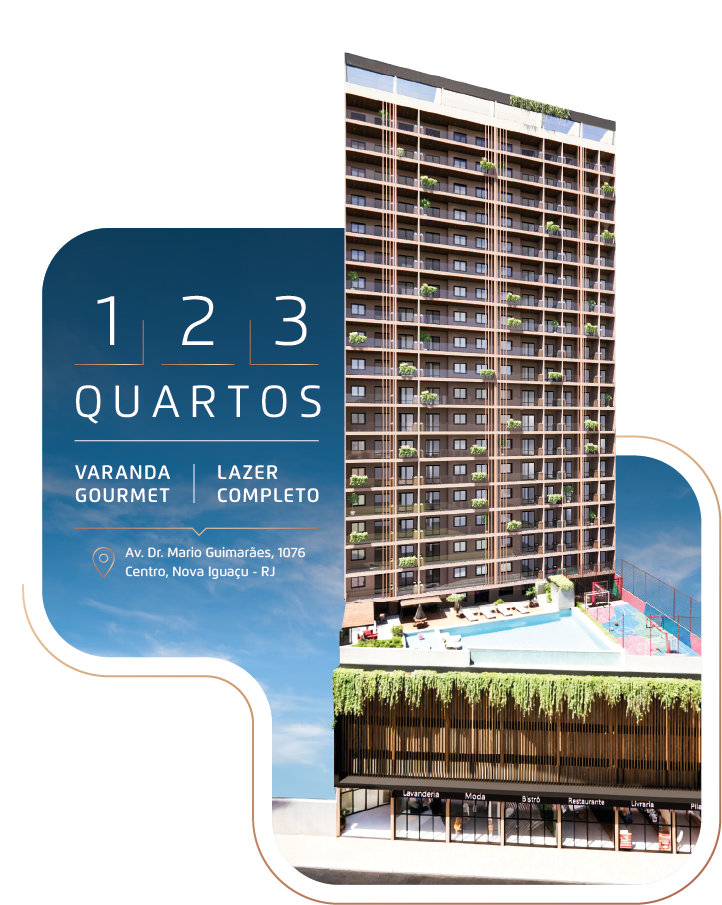
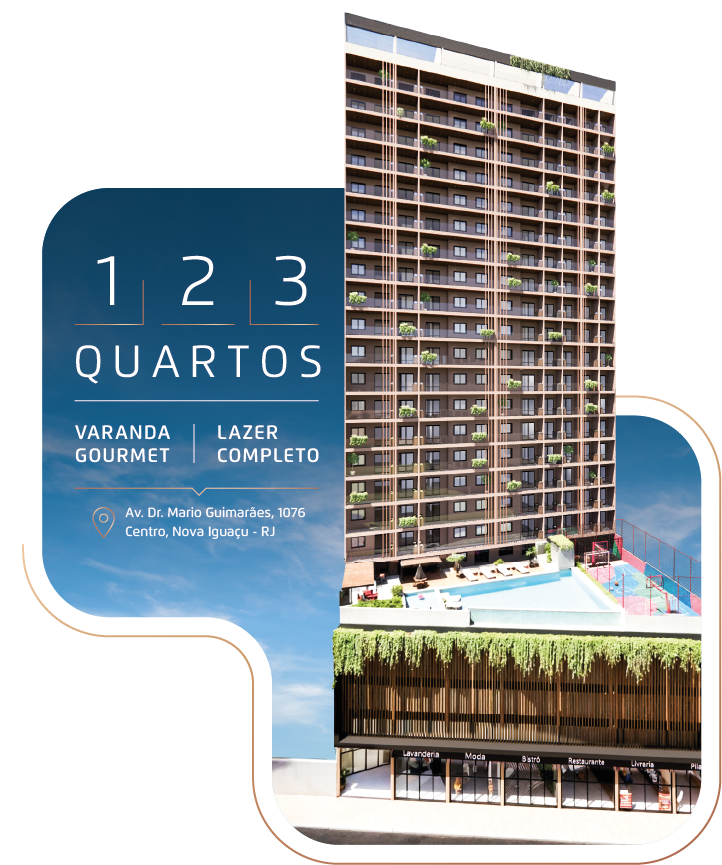
update residencia

diff --git a/css/style.css b/css/style.css
@@ -288,7 +288,6 @@ body {
 .residencial-title {
     font-size: 32px;
     font-weight: 300;
-    margin-top: 20px;
     line-height: 1.4;
     color: #e5bf9a;
 }
@@ -299,18 +298,19 @@ body {
 }
 
 .residencial-text {
-    font-size: 14px;
-    margin-top: 25px;
+    font-size: 18px;
+    margin-top: 45px;
     line-height: 1.7;
     opacity: 0.9;
 }
 
 .residencial-bear-wrapper {
     margin-top: 40px;
+    text-align: end;
 }
 
 .residencial-bear {
-    max-width: 460px;
+    max-width: 380px;
 }
 
 .residencial-card-image-wrapper {
@@ -319,8 +319,8 @@ body {
 }
 
 .residencial-final-img {
-    max-width: 460px;
     width: 100%;
+    height: auto;
     margin-left: auto;
     display: block;
 }

diff --git a/index.html b/index.html
@@ -160,7 +160,7 @@
                     <!-- DIREITA -->
                     <div class="col-lg-5 offset-lg-1">
                         <div class="residencial-card-image-wrapper">
-                            <img src="./imgs/123_quartos.png" alt="1 2 3 Quartos"
+                            <img src="./imgs/123_quartos2.png" alt="1 2 3 Quartos"
                                 class="img-fluid residencial-final-img">
                         </div>
                     </div>
